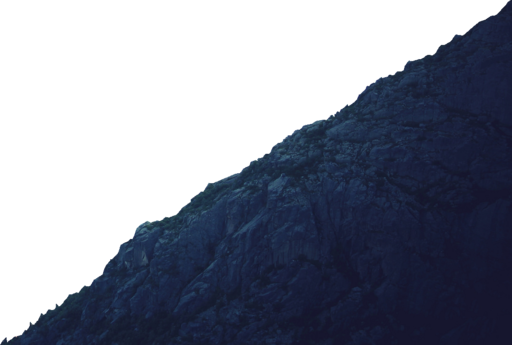
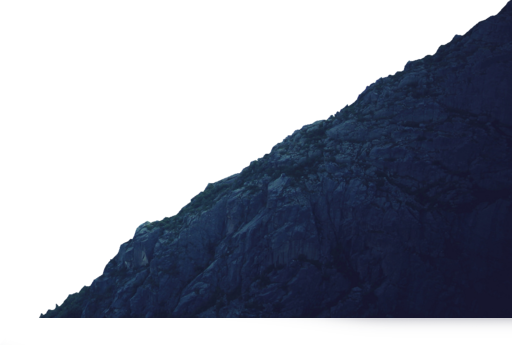
remove glicth

Changed region(s): [[0.0, 0.8986, 1.0, 1.0]]

diff --git a/index.html b/index.html
@@ -61,11 +61,11 @@
       }
       .cliff {
         width: 100%;
-        height: 100%;
+        height: 80%;
         z-index: 10;
         background-image: url('/images/right-cliff.png');
         margin-left: 20%;
-        margin-top: -100%;
+        margin-top: -80%;
       }
       .clouds {
         width: 120%;
